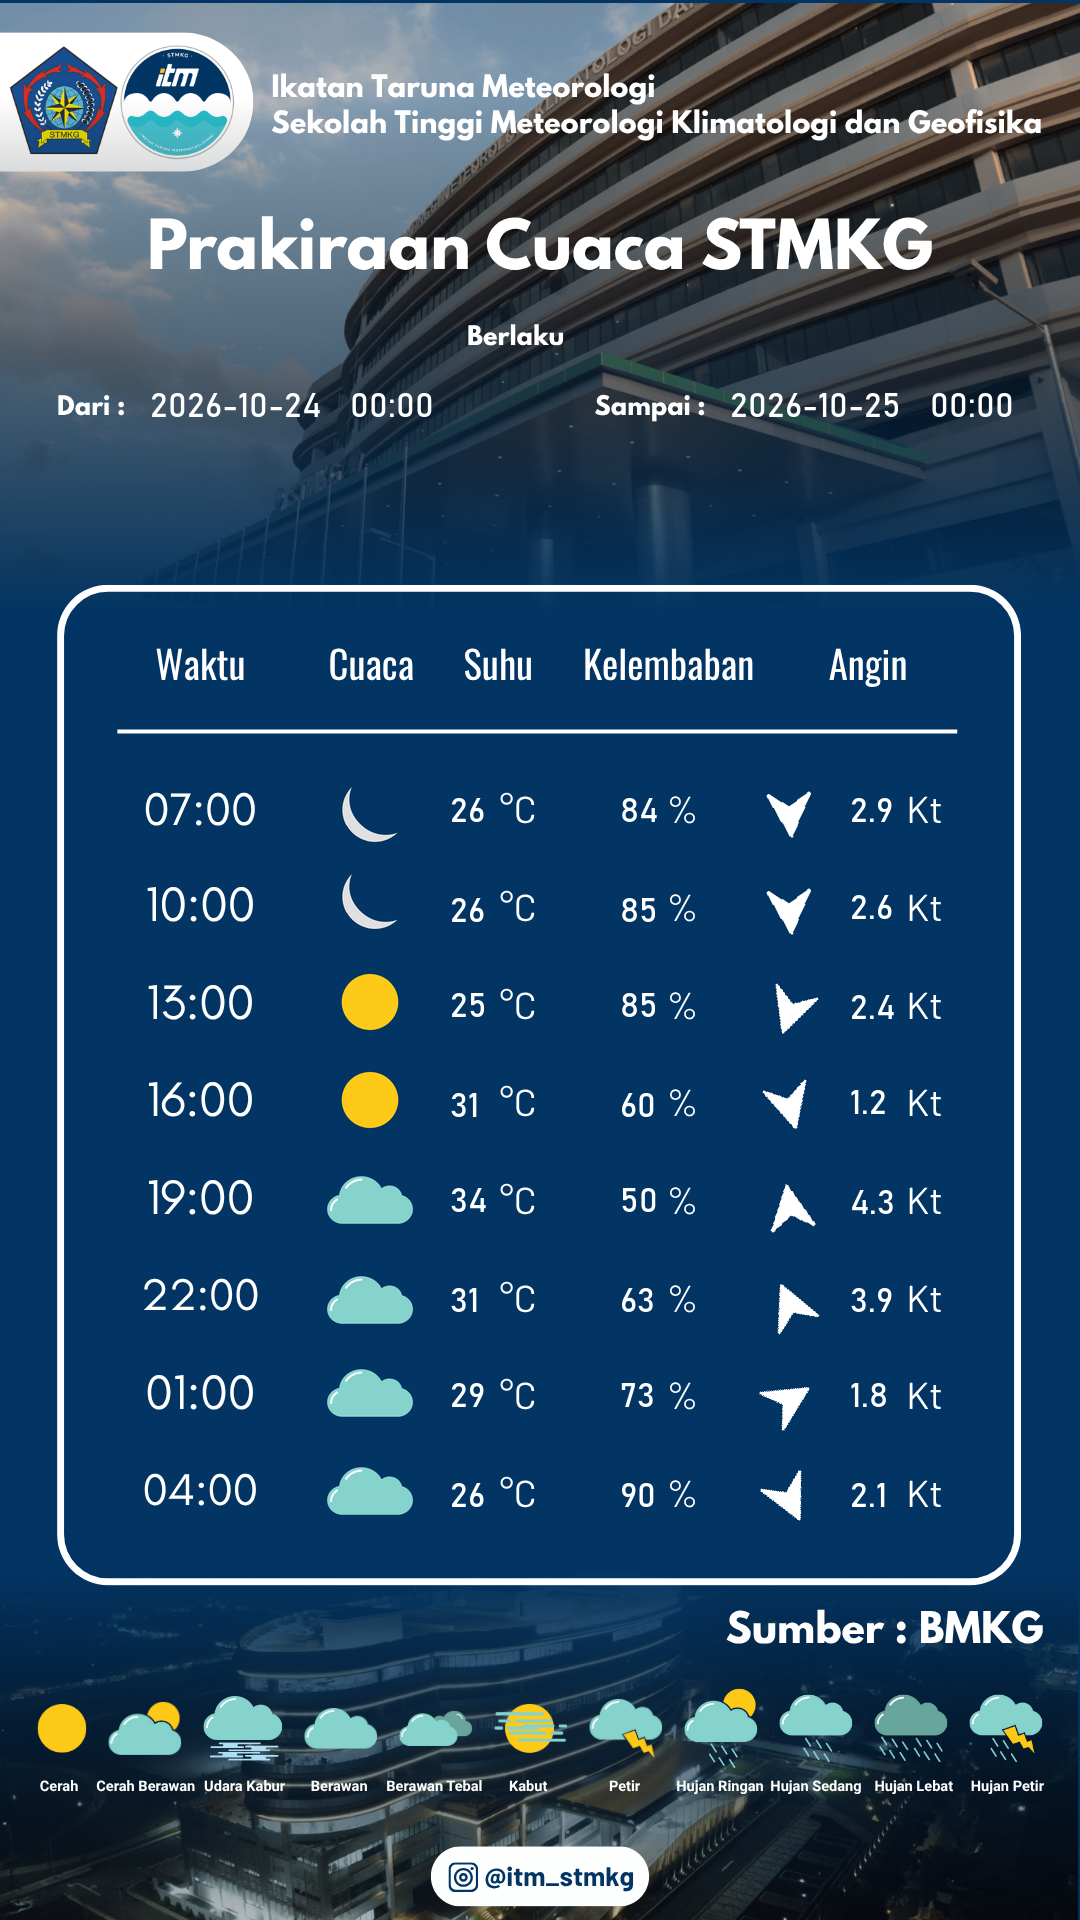
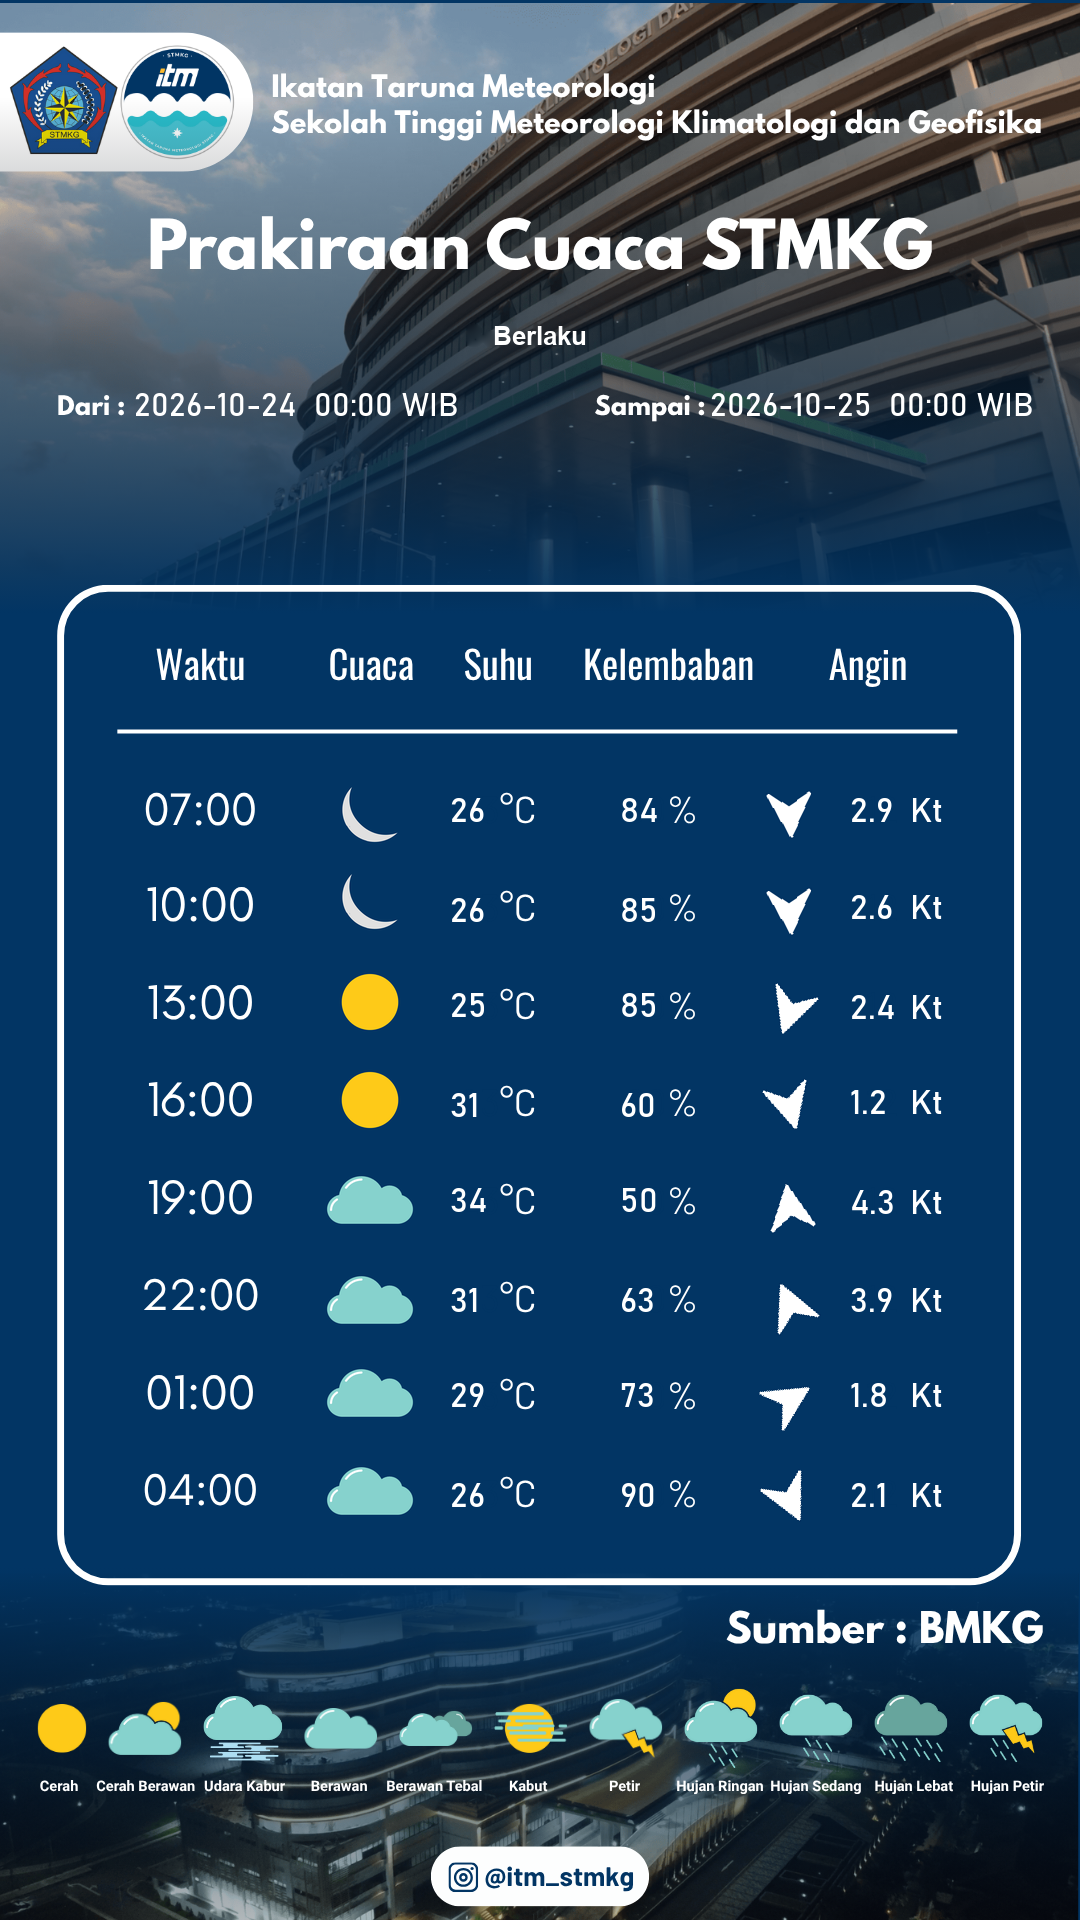
Update forecast recipients and image

diff --git a/KIRIM_EMAIL.py b/KIRIM_EMAIL.py
@@ -9,7 +9,7 @@ from zoneinfo import ZoneInfo
 
 BASE_DIR = Path(__file__).resolve().parent
 SENDER_EMAIL = "bayufirdanan@gmail.com"
-RECIPIENT_EMAILS = ["bayufirdanan@gmail.com", "titantapson1@gmail.com"]
+RECIPIENT_EMAILS = ["bayufirdanan@gmail.com", "nurlialayla06@gmail.com", "hanagirsang62@gmail.com", "michaeljustine135@gmail.com", "aidilll0602@gmail.com"]
 
 
 def main() -> int:
